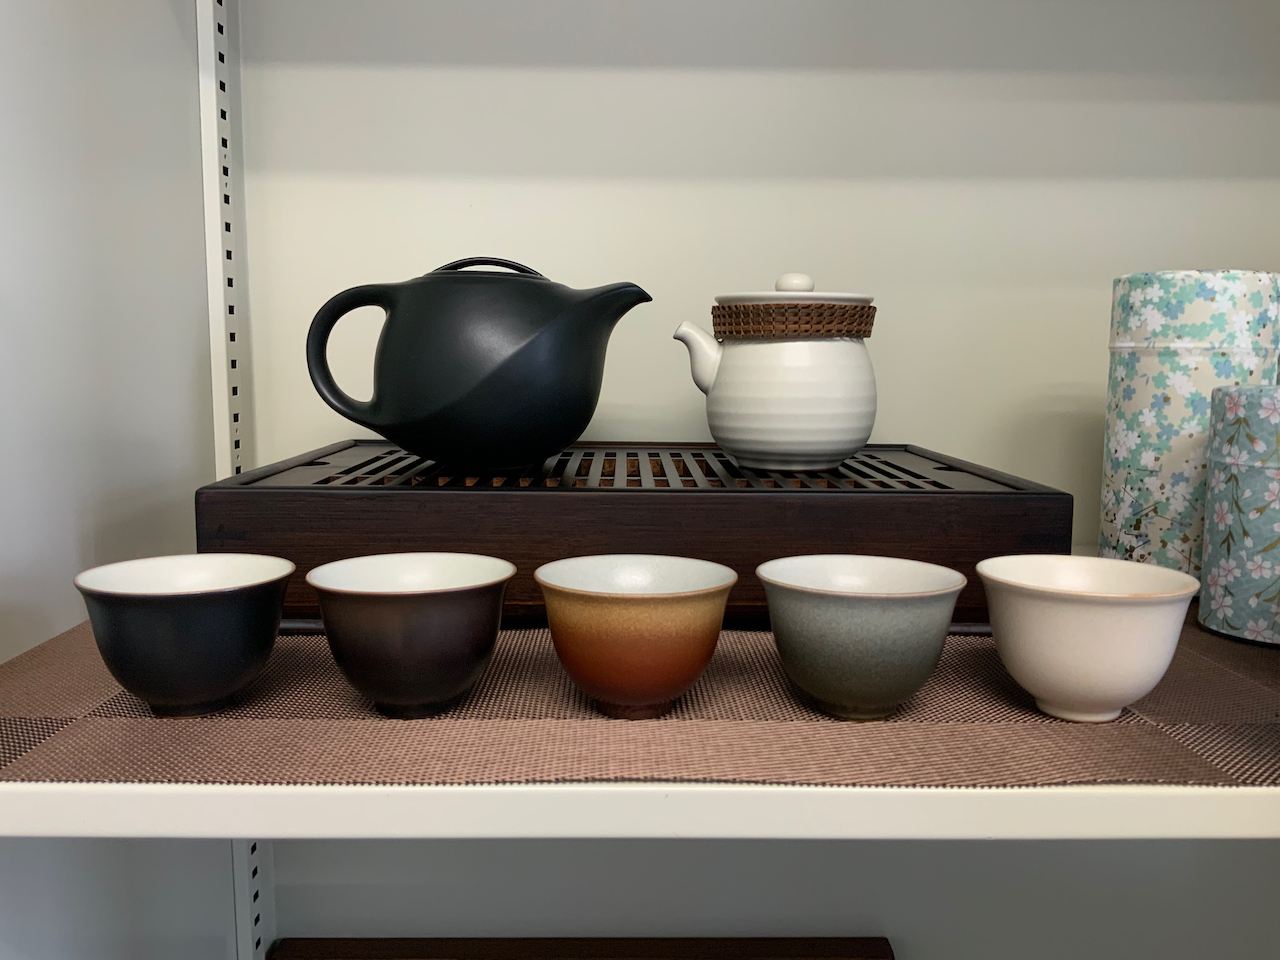
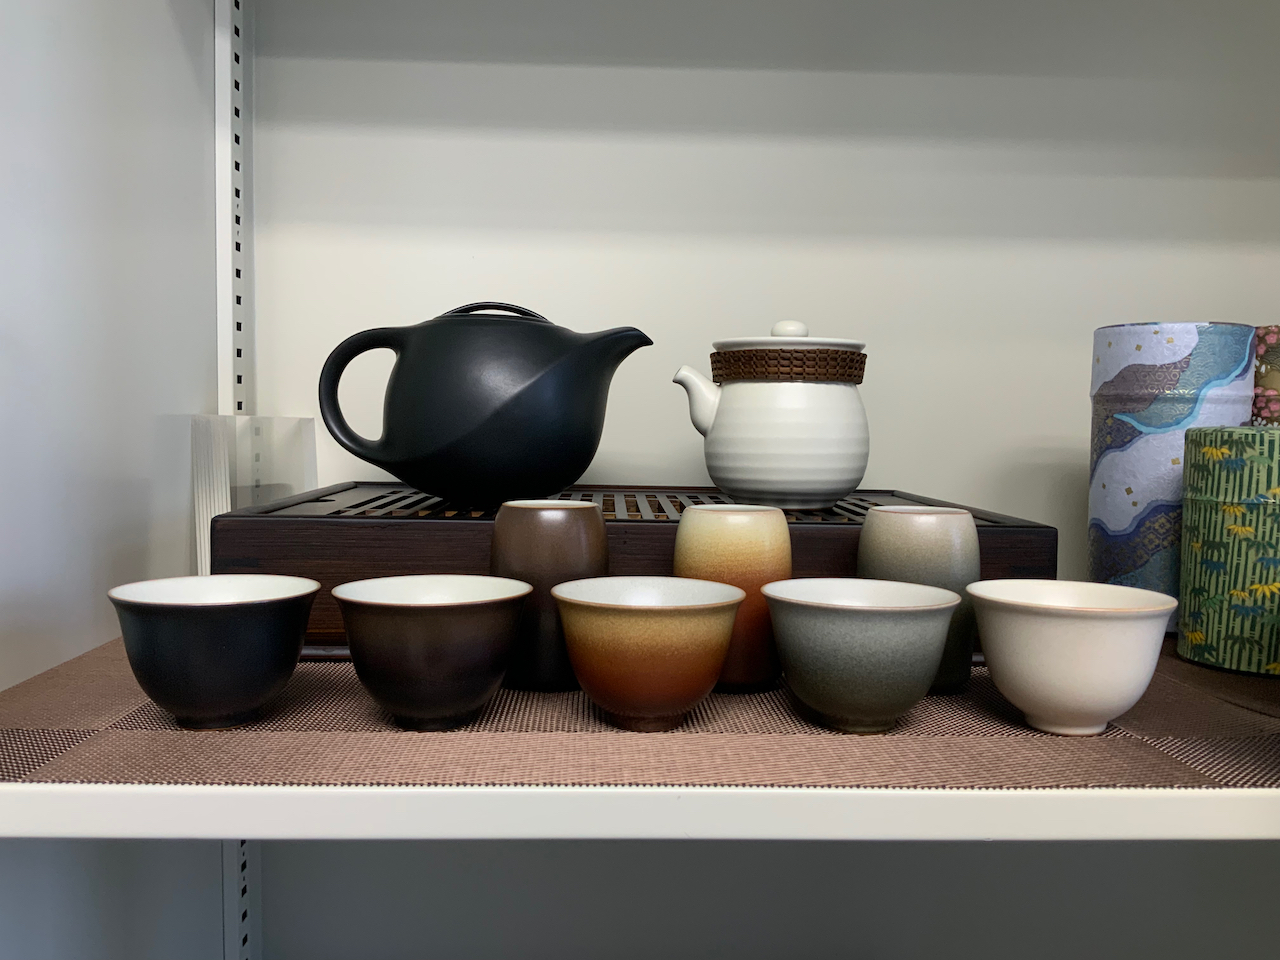
0021 nosing cups

diff --git a/blog/0021/index.html b/blog/0021/index.html
@@ -63,7 +63,7 @@
 0021
 </div>
 <h2>Tea bars</h2>
-<div class="post-time">Posted at 17:17 on 22 June 2021, and revised at 15:22 on 23 June 2021</div>
+<div class="post-time">Posted at 17:17 on 22 June 2021, and revised at 20:47 on 16 October 2021</div>
 <p>There have been several waves of reviewing and paper &amp; report writing tasks since mid-April, and I had to put my own projects aside (in particular diagrammatic quantum programming) and concentrate on those tasks.
 The majority of the waves have gone now, and I come out with a paper accepted for Bx, a paper submitted to SOSP, a nearly finished paper to be submitted to CSL, a mid-term project report for the Ministry of Science and Technology, a short report and a 10-min video presentation for the programme review of IIS, and an almost finalised programme for TyDe.
 <a href="https://yangzhixuan.github.io">Zhixuan</a> reminds me that I am free to blog more often about non-technical stuff, so that’s the first thing I’m doing in celebration of surviving the waves and getting back some of my own time.</p>
@@ -76,7 +76,8 @@ This was the latest version of which I took a picture:</p>
 <p>When searching for a large and nice-looking teapot, I was immediately attracted by the beautiful and distinctive ridge and ordered it from <a href="https://www.taurlia.com">Lin’s Ceramics Studio</a> (but it was paid for by <a href="https://ac.k331.one">Zirun</a> as a birthday gift).
 Later I found that the studio is in fact a very successful pottery maker in Taiwan, and continued to acquire quite a few of their products, including the white ‘Easy Steep’ teapot and the teacups in the picture above.
 The black teapot holds about 500ml of water, which is somewhat too big when there aren’t many people to serve, in which case the white teapot, at 250ml, is more handy; when there are more people and the 500ml teapot becomes necessary, in which case tea is poured from the teapot into more than one serving pots to parallelise tea distribution, the 250ml teapot also works as one of the serving pots.
-Traditionally, people prefer tea sets that are uniform in style and colour, but I want every piece of teaware to have a bit of its own personality, and the differently coloured teacups achieve that very well while retaining uniformity; practically, the different colours also make it hard to confuse one’s teacup with someone else’s during a more crowded tea party.</p>
+Traditionally, people prefer tea sets that are uniform in style and colour, but I want every piece of teaware to have a bit of its own personality, and the differently coloured teacups achieve that very well while retaining uniformity; practically, the different colours also make it hard to confuse one’s teacup with someone else’s during a more crowded tea party.
+The shorter cups are for tea tasting while the taller ones are nosing cups, which are a Taiwanese invention for strengthening the aroma of <a href="https://en.wikipedia.org/wiki/High-mountain_tea">high-mountain tea</a>.</p>
 <p>To the right is the tea section:</p>
 <p><a href="tea-section.jpeg"><img class="displayed-photo" src="tea-section.jpeg" alt="Tea section"/></a></p>
 <p>The stoneware jars on the first row are also from Lin’s Ceramics Studio, and are used to store more heavily oxidised tea, whose flavour can be further refined through some contact with air.
@@ -100,7 +101,7 @@ In real use I find that even the one that was fired the most number of times (si
 For brewing lightly oxidised tea, the <a href="https://en.wikipedia.org/wiki/Ru_ware">Ru-ware</a> teapot is more ideal, whose jade-like colour is described as evocative of the kind of blue sky after raining; at 130ml, this teapot is larger and more convenient when I don’t want to bother with frequent brewing or when serving 2–3 people.
 On the right is a Purion clay mug, which has a specially designed filter inside for brewing loose leaf tea, and is useful when I don’t have time and equipment to brew my tea using teapots, for example in a meeting.
 The black rectangular device in the middle is an electronic scale for weighing tea leaves, and on top of the scale are a tea spoon (the larger one) and a tea scoop (the thin and long one) for handling tea leaves without touching them.
-Behind are some porcelain party teacups, also in different colours, and two glass serving pots (which are also a part of the birthday gift from <a href="https://ac.k331.one">Zirun</a> except the innermost square pot, which I bought in Japan).
+Behind are some porcelain party teacups, also in different colours, and two glass serving pots (which are also a part of the birthday gift from <a href="https://ac.k331.one">Zirun</a> except the innermost square pot, which I bought in Japan; incidentally, serving pots are also a Taiwanese invention).
 I’ve come to regard glass as the ideal material for serving pots since tea cools quicker in glass containers (so people don’t have to wait too long for the tea to reach a lower and better temperature for drinking), the colour of tea is easily seen, and it’s easier for me to see how much tea is consumed and whether it’s time to brew more.</p>
 <p>Alas, there’s finally a covid-19 outbreak in Taiwan, although thankfully the pandemic is still mild and under control here compared with the rest of the world.
 We started to work from home since May, so naturally I haven’t been able to hold any tea parties, and probably won’t be able to in the near future as long as it’s not safe to go back to the institute.

diff --git a/blog/0021/0021.md b/blog/0021/0021.md
@@ -21,6 +21,7 @@ When searching for a large and nice-looking teapot, I was immediately attracted 
 Later I found that the studio is in fact a very successful pottery maker in Taiwan, and continued to acquire quite a few of their products, including the white ‘Easy Steep’ teapot and the teacups in the picture above.
 The black teapot holds about 500ml of water, which is somewhat too big when there aren’t many people to serve, in which case the white teapot, at 250ml, is more handy; when there are more people and the 500ml teapot becomes necessary, in which case tea is poured from the teapot into more than one serving pots to parallelise tea distribution, the 250ml teapot also works as one of the serving pots.
 Traditionally, people prefer tea sets that are uniform in style and colour, but I want every piece of teaware to have a bit of its own personality, and the differently coloured teacups achieve that very well while retaining uniformity; practically, the different colours also make it hard to confuse one’s teacup with someone else’s during a more crowded tea party.
+The shorter cups are for tea tasting while the taller ones are nosing cups, which are a Taiwanese invention for strengthening the aroma of [high-mountain tea](https://en.wikipedia.org/wiki/High-mountain_tea).
 
 To the right is the tea section:
 
@@ -53,7 +54,7 @@ In real use I find that even the one that was fired the most number of times (si
 For brewing lightly oxidised tea, the [Ru-ware](https://en.wikipedia.org/wiki/Ru_ware) teapot is more ideal, whose jade-like colour is described as evocative of the kind of blue sky after raining; at 130ml, this teapot is larger and more convenient when I don’t want to bother with frequent brewing or when serving 2–3 people.
 On the right is a Purion clay mug, which has a specially designed filter inside for brewing loose leaf tea, and is useful when I don’t have time and equipment to brew my tea using teapots, for example in a meeting.
 The black rectangular device in the middle is an electronic scale for weighing tea leaves, and on top of the scale are a tea spoon (the larger one) and a tea scoop (the thin and long one) for handling tea leaves without touching them.
-Behind are some porcelain party teacups, also in different colours, and two glass serving pots (which are also a part of the birthday gift from [Zirun](https://ac.k331.one) except the innermost square pot, which I bought in Japan).
+Behind are some porcelain party teacups, also in different colours, and two glass serving pots (which are also a part of the birthday gift from [Zirun](https://ac.k331.one) except the innermost square pot, which I bought in Japan; incidentally, serving pots are also a Taiwanese invention).
 I’ve come to regard glass as the ideal material for serving pots since tea cools quicker in glass containers (so people don’t have to wait too long for the tea to reach a lower and better temperature for drinking), the colour of tea is easily seen, and it’s easier for me to see how much tea is consumed and whether it’s time to brew more.
 
 Alas, there’s finally a covid-19 outbreak in Taiwan, although thankfully the pandemic is still mild and under control here compared with the rest of the world.
